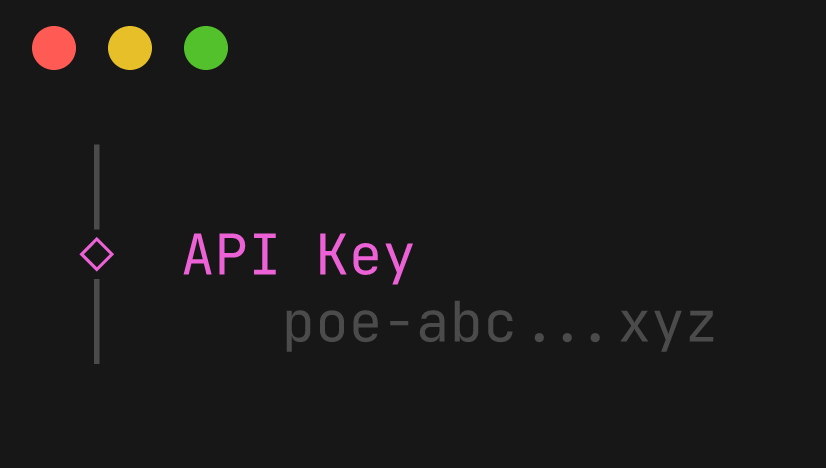
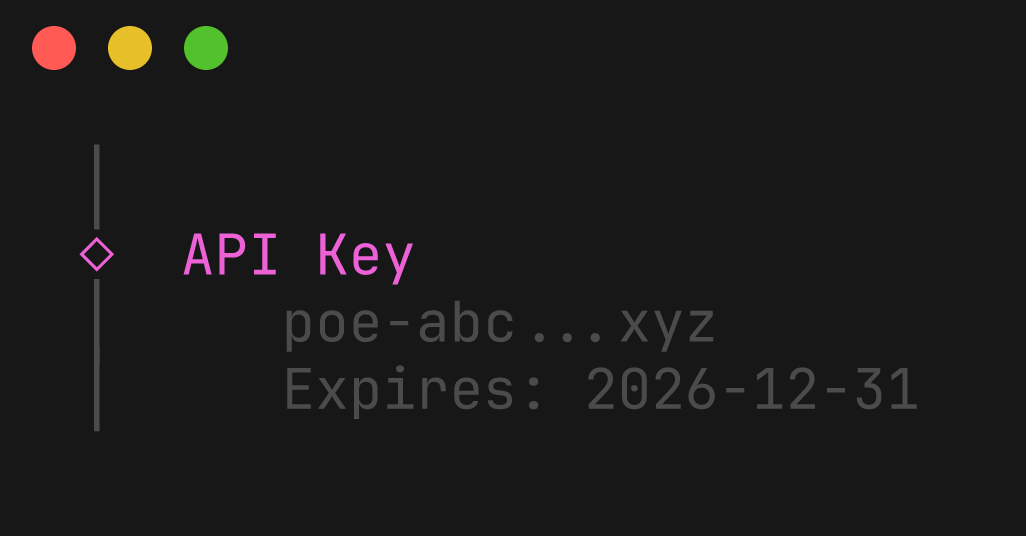
feat: add errorResolved design language component
Add errorResolved logger method for displaying errors with details,
similar to resolved but using a red square symbol. Includes theme
support for dark/light modes and updated design documentation.

Changed region(s): [[0.1816, 0.4188, 0.908, 0.7778], [0.0303, 0.0299, 0.3027, 0.1496], [0.0605, 0.2692, 0.1513, 0.8077]]

diff --git a/src/cli/ui/theme.ts b/src/cli/ui/theme.ts
@@ -11,6 +11,7 @@ export interface MenuPalette {
   providerFallback(label: string): string;
   intro(text: string): string;
   resolvedSymbol: string;
+  errorSymbol: string;
 }
 
 export interface MenuTheme {
@@ -26,6 +27,7 @@ interface ThemeConfig {
   providerFallback: (text: string) => string;
   intro: (text: string) => string;
   resolvedSymbol: string;
+  errorSymbol: string;
 }
 
 const DARK_THEME: ThemeConfig = {
@@ -35,7 +37,8 @@ const DARK_THEME: ThemeConfig = {
   number: (text) => chalk.cyanBright(text),
   providerFallback: (text) => text,
   intro: (text) => chalk.bgMagenta.white(` Poe - ${text} `),
-  resolvedSymbol: chalk.magenta("◇")
+  resolvedSymbol: chalk.magenta("◇"),
+  errorSymbol: chalk.red("■")
 };
 
 const LIGHT_THEME: ThemeConfig = {
@@ -45,7 +48,8 @@ const LIGHT_THEME: ThemeConfig = {
   number: (text) => chalk.hex("#0077cc").bold(text),
   providerFallback: (text) => text,
   intro: (text) => chalk.bgHex("#a200ff").white(` Poe - ${text} `),
-  resolvedSymbol: chalk.hex("#a200ff")("◇")
+  resolvedSymbol: chalk.hex("#a200ff")("◇"),
+  errorSymbol: chalk.hex("#cc0000")("■")
 };
 
 const THEMES: Record<MenuThemeName, ThemeConfig> = {
@@ -104,7 +108,8 @@ function buildPalette(config: ThemeConfig): MenuPalette {
     number: (value) => config.number(`[${value}]`),
     providerFallback: config.providerFallback,
     intro: config.intro,
-    resolvedSymbol: config.resolvedSymbol
+    resolvedSymbol: config.resolvedSymbol,
+    errorSymbol: config.errorSymbol
   };
 }
 

diff --git a/scripts/design-demo.ts b/scripts/design-demo.ts
@@ -29,7 +29,8 @@ type DemoType =
   | "menu"
   | "note"
   | "outro"
-  | "resolved";
+  | "resolved"
+  | "errorResolved";
 
 function runTextDemo(style: string, text: string): void {
   const styleFn = design.text[style as keyof typeof design.text];
@@ -114,7 +115,18 @@ function runOutroDemo(): void {
 }
 
 function runResolvedDemo(): void {
-  log.message("API Key\n   poe-abc...xyz", { symbol: design.symbols.resolved });
+  log.message("API Key\n   poe-abc...xyz\n   Expires: 2026-12-31", {
+    symbol: design.symbols.resolved
+  });
+}
+
+function runErrorResolvedDemo(): void {
+  log.message(
+    "Configuration Failed\n   Missing API key\n   Check your .env file or run poe-code login",
+    {
+      symbol: design.symbols.errorResolved
+    }
+  );
 }
 
 function main(): void {
@@ -127,8 +139,9 @@ function main(): void {
       "Types: intro, heading, section, command, argument, option, example,\n"
     );
     process.stderr.write(
-      "       usageCommand, link, muted, symbol, log, diff, menu, note, outro, resolved\n"
+      "       usageCommand, link, muted, symbol, log, diff, menu, note, outro,\n"
     );
+    process.stderr.write("       resolved, errorResolved\n");
     process.exitCode = 1;
     return;
   }
@@ -168,6 +181,9 @@ function main(): void {
       break;
     case "resolved":
       runResolvedDemo();
+      break;
+    case "errorResolved":
+      runErrorResolvedDemo();
       break;
     default:
       process.stderr.write(`Unknown demo type: ${type}\n`);

diff --git a/src/cli/logger.ts b/src/cli/logger.ts
@@ -16,6 +16,7 @@ export interface ScopedLogger {
   success(message: string): void;
   warn(message: string): void;
   error(message: string): void;
+  errorResolved(label: string, value: string): void;
   errorWithStack(error: Error, context?: ErrorContext): void;
   logException(error: Error, operation: string, context?: ErrorContext): void;
   dryRun(message: string): void;
@@ -37,6 +38,7 @@ export interface LoggerFactory {
 export interface LoggerTheme {
   intro?: (text: string) => string;
   resolvedSymbol?: string;
+  errorSymbol?: string;
 }
 
 function wrapText(text: string, maxWidth: number): string {
@@ -112,6 +114,14 @@ export function createLoggerFactory(
       },
       error(message) {
         emit("error", formatMessage(message));
+      },
+      errorResolved(label, value) {
+        if (emitter) {
+          emitter(`${label}: ${value}`);
+          return;
+        }
+        const symbol = theme?.errorSymbol ?? chalk.red("■");
+        log.message(`${label}\n   ${value}`, { symbol });
       },
       errorWithStack(error, errorContext) {
         emit("error", formatMessage(error.message));

diff --git a/scripts/generate-design-docs.ts b/scripts/generate-design-docs.ts
@@ -107,6 +107,12 @@ const sections: Section[] = [
         description: "Resolved/completed indicator (hollow diamond)",
         codeSnippet: `design.symbols.resolved  // ◇`,
         demoArgs: `symbol resolved`
+      },
+      {
+        name: "errorResolved",
+        description: "Error with details indicator (red square)",
+        codeSnippet: `design.symbols.errorResolved  // ■`,
+        demoArgs: `symbol errorResolved`
       }
     ]
   },
@@ -167,6 +173,12 @@ const sections: Section[] = [
         description: "Resolved prompt value display",
         codeSnippet: `logger.resolved("API Key", "poe-abc...xyz")`,
         demoArgs: `resolved`
+      },
+      {
+        name: "clack-errorResolved",
+        description: "Error with details display",
+        codeSnippet: `logger.errorResolved("Config Failed", "Missing API key")`,
+        demoArgs: `errorResolved`
       }
     ]
   },

diff --git a/tests/logger.test.ts b/tests/logger.test.ts
@@ -91,6 +91,17 @@ describe("createLoggerFactory", () => {
     });
   });
 
+  it("renders errorResolved with label and value using red square symbol", () => {
+    const logger = createLoggerFactory().create();
+
+    logger.errorResolved("Configuration Failed", "Missing API key");
+
+    expect(logMessage).toHaveBeenCalledWith(
+      "Configuration Failed\n   Missing API key",
+      { symbol: chalk.red("■") }
+    );
+  });
+
   it("renders verbose messages without a symbol when verbose is enabled", () => {
     const logger = createLoggerFactory().create({ verbose: true });
 

diff --git a/src/cli/ui/design-language.ts b/src/cli/ui/design-language.ts
@@ -27,6 +27,7 @@ export interface CliDesignLanguage {
     info: string;
     success: string;
     resolved: string;
+    errorResolved: string;
   };
   copy: CliCopy;
 }
@@ -64,7 +65,8 @@ export function createCliDesignLanguage(
     symbols: {
       info: chalk.magenta("●"),
       success: chalk.magenta("◆"),
-      resolved: theme.palette.resolvedSymbol
+      resolved: theme.palette.resolvedSymbol,
+      errorResolved: theme.palette.errorSymbol
     },
     copy
   };

diff --git a/docs/DESIGN_LANGUAGE.md b/docs/DESIGN_LANGUAGE.md
@@ -142,6 +142,16 @@ design.symbols.resolved  // ◇
 
 ![resolved](design-language/resolved.png)
 
+### errorResolved
+
+Error with details indicator (red square)
+
+```typescript
+design.symbols.errorResolved  // ■
+```
+
+![errorResolved](design-language/errorResolved.png)
+
 ## Log Messages
 
 Structured logging with appropriate visual weight.
@@ -229,6 +239,16 @@ logger.resolved("API Key", "poe-abc...xyz")
 ```
 
 ![clack-resolved](design-language/clack-resolved.png)
+
+### clack-errorResolved
+
+Error with details display
+
+```typescript
+logger.errorResolved("Config Failed", "Missing API key")
+```
+
+![clack-errorResolved](design-language/clack-errorResolved.png)
 
 ## Complex Patterns
 
